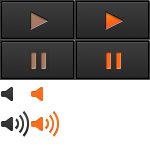
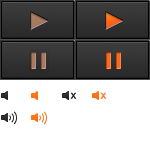
CC-2906: Airtime Volume Control is invisible when turned on.
-fixed

diff --git a/airtime_mvc/public/js/jplayer/skin/jplayer.blue.monday.css b/airtime_mvc/public/js/jplayer/skin/jplayer.blue.monday.css
@@ -318,14 +318,15 @@ div.jp-seeking-bg {
 }
 
 a.jp-mute,
-a.jp-unmute {
-	width:30px;
-	height:30px;
+a.jp-unmute,
+a.jp-volume-max {
+	width:20px;
+	height:20px;
 }
 div.jp-audio div.jp-type-single a.jp-mute,
 div.jp-audio div.jp-type-single a.jp-unmute {
-	top:22px;
-	left:300px;
+	top:30px;
+	left:227px;
 }
 div.jp-audio div.jp-type-playlist a.jp-mute,
 div.jp-audio div.jp-type-playlist a.jp-unmute {
@@ -353,29 +354,45 @@ div.jp-video-360p div.jp-type-playlist a.jp-unmute {
 	left:443px;
 }
 a.jp-mute {
-	background: url("jplayer.png") 0 -110px no-repeat;
+	background: url("jplayer.png") 0 -90px no-repeat;
 }
 a.jp-mute:hover {
-	background: url("jplayer.png") -30px -80px no-repeat;
+	background: url("jplayer.png") -30px -90px no-repeat;
 }
 a.jp-unmute {
-	background: url("jplayer.png") 0 -80px no-repeat;
+	background: url("jplayer.png") -61px -90px no-repeat;
 	display: none;
 }
 a.jp-unmute:hover {
-	background: url("jplayer.png") -30px -110px no-repeat;
+	background: url("jplayer.png") -91px -90px no-repeat;
+}
+div.jp-interface ul.jp-controls a.jp-volume-max {
+    background: url("jplayer.png") no-repeat scroll 0 -110px transparent;
+}
+div.jp-interface ul.jp-controls a.jp-volume-max:hover {
+    background: url("jplayer.png") no-repeat scroll -30px -110px transparent;
+}
+div.jp-audio ul.jp-controls a.jp-volume-max {
+    left: 340px;
+    top: 28px;
 }
 div.jp-volume-bar {
 	position: absolute;
 	overflow:hidden;
-	background: url("jplayer.png") 0 -250px repeat-x;
-	width:46px;
-	height:5px;
+	background:#393939;
+	-moz-box-shadow: rgba(0, 0, 0, 0.5) 0 0 1px inset;
+	-webkit-box-shadow: rgba(0, 0, 0, 0.5) 0 0 1px inset;
+	border-bottom:1px solid #5e5e5e;
+	border-top:1px solid #262526;
+	border-left:1px solid #262526;
+	border-right:1px solid #262526;
+	width:130px;
+	height:4px;
 	cursor: pointer;
 }
 div.jp-audio div.jp-type-single div.jp-volume-bar {
-	top:37px;
-	left:302px;
+	top:48px;
+	left:225px;
 }
 div.jp-audio div.jp-type-playlist div.jp-volume-bar {
 	top:37px;
@@ -397,9 +414,11 @@ div.jp-video-360p div.jp-type-playlist div.jp-volume-bar {
 	left:471px;
 }
 div.jp-volume-bar-value {
-	background: url("jplayer.png") 0 -256px repeat-x;
+	background-color:#fb7018;
+    background: -moz-linear-gradient(top, #fc9318 0, #e56815 100%);
+    background: -webkit-gradient(linear, left top, left bottom, color-stop(0, #fc9318), color-stop(100%, #e56815));
 	width:0px;
-	height:5px;
+	height:3px;
 }
 div.jp-current-time,
 div.jp-duration {
